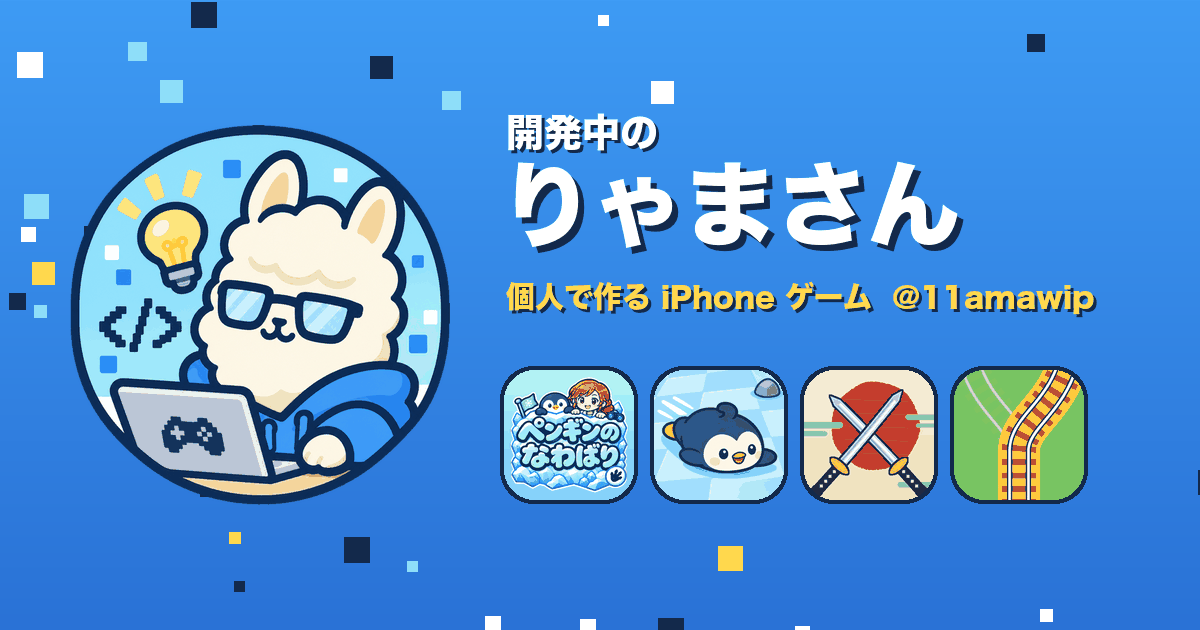
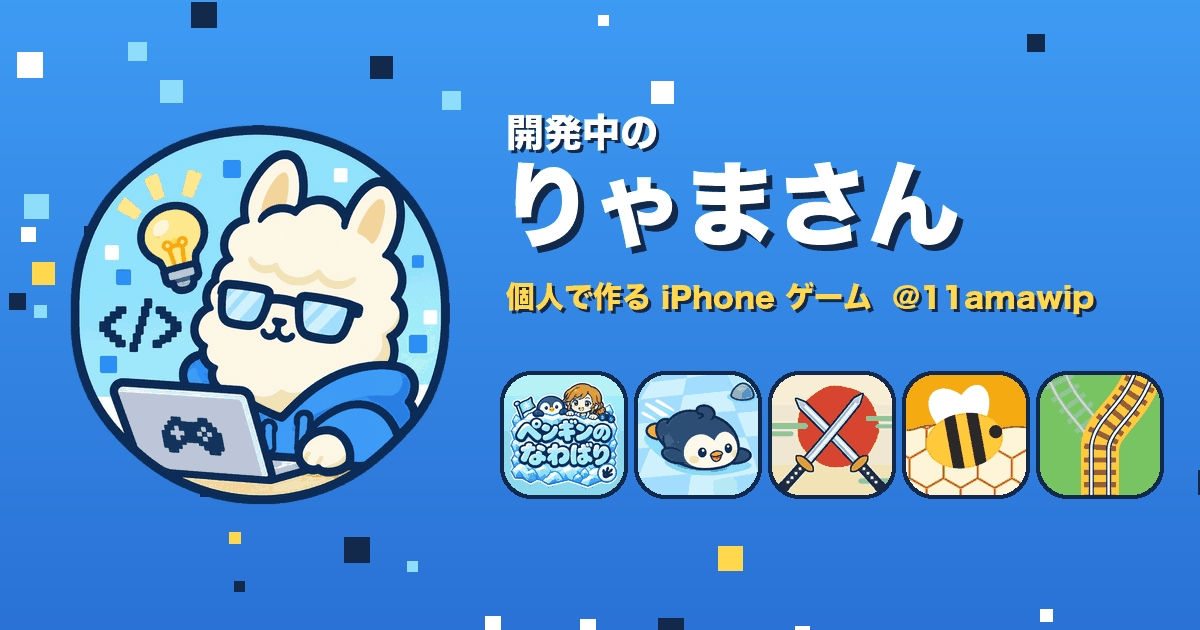
みつわけハニカム追加・切り替え特急を配信中に・スマホで札を畳む

diff --git a/index.html b/index.html
@@ -4,7 +4,7 @@
 <meta charset="utf-8">
 <meta name="viewport" content="width=device-width, initial-scale=1">
 <title>開発中のりゃまさん（@11amawip）— 個人で作る iPhone ゲーム</title>
-<meta name="description" content="個人で iPhone のゲームを作っています。ペンギンのなわばり、すべりだせ！ペンギン、フリックチャンバラ。どれも無料で遊べます。">
+<meta name="description" content="個人で iPhone のゲームを作っています。ペンギンのなわばり、すべりだせ！ペンギン、フリックチャンバラ、みつわけハニカム、切り替え特急。どれも無料で遊べます。">
 <meta name="theme-color" content="#2F86F0">
 <link rel="icon" href="img/avatar.png">
 <link rel="apple-touch-icon" href="img/avatar.png">
@@ -12,7 +12,7 @@
 <meta property="og:type" content="website">
 <meta property="og:url" content="https://11amawip.github.io/">
 <meta property="og:title" content="開発中のりゃまさん — 個人で作る iPhone ゲーム">
-<meta property="og:description" content="六角の推理パズル、氷をすべる脱出パズル、フリックで斬るチャンバラ。どれも無料。">
+<meta property="og:description" content="六角の推理パズル、氷をすべる脱出パズル、フリックで斬るチャンバラ、蜜を分けるパズル、分岐を切り替える電車ゲーム。どれも無料。">
 <meta property="og:image" content="https://11amawip.github.io/img/ogp.png">
 <meta name="twitter:card" content="summary_large_image">
 <meta name="twitter:site" content="@11amawip">
@@ -47,9 +47,9 @@
     <div>
       <span class="eyebrow">INDIE GAME DEV · @11amawip</span>
       <h1><small>開発中の</small>りゃまさん</h1>
-      <p class="lead">個人で iPhone のゲームを作っています。<br><span>考える、すべる、斬る、走る。</span><br>どれも無料です。</p>
+      <p class="lead">個人で iPhone のゲームを作っています。<br><span>考える、すべる、斬る、分ける、走る。</span><br>どれも無料です。</p>
       <ul class="stats">
-        <li>3 GAMES + 1 SOON</li><li>FREE TO PLAY</li><li>iPhone</li>
+        <li>5 GAMES</li><li>FREE TO PLAY</li><li>iPhone</li>
       </ul>
       <a class="cta" href="#games">ゲームを見る <span class="arrow">↓</span></a>
     </div>
@@ -58,8 +58,8 @@
 
 <div class="band"><div class="marquee" aria-hidden="true">
   <div class="marquee__track">
-    <span>ペンギンのなわばり</span><span>すべりだせ！ペンギン</span><span>フリックチャンバラ</span><span>切り替え特急</span>
-    <span>ペンギンのなわばり</span><span>すべりだせ！ペンギン</span><span>フリックチャンバラ</span><span>切り替え特急</span>
+    <span>ペンギンのなわばり</span><span>すべりだせ！ペンギン</span><span>フリックチャンバラ</span><span>みつわけハニカム</span><span>切り替え特急</span>
+    <span>ペンギンのなわばり</span><span>すべりだせ！ペンギン</span><span>フリックチャンバラ</span><span>みつわけハニカム</span><span>切り替え特急</span>
   </div>
 </div></div>
 
@@ -130,6 +130,27 @@
     <span class="app__num" aria-hidden="true">03</span>
   </article>
 
+  <article class="app app--honey">
+    <div class="app__text">
+      <div class="app__head">
+        <img class="app__icon" src="img/honey-icon.png" alt="" width="256" height="256">
+        <div><h3 class="app__name">みつわけハニカム</h3><p class="app__genre">蜜をフタで分けるパズル</p></div>
+      </div>
+      <p class="app__catch">とろとろの蜜を、<br><em>ぴったり分けて。</em></p>
+      <ul class="app__feat">
+        <li>蜜はマスごとに左下と右下へ半分ずつ。フタで道を変える</li>
+        <li>ツボの数字とぴったり同じ量になったら「ぶんぶん！」</li>
+        <li>500ステージと、毎日とどく「きょうの1問」</li>
+      </ul>
+      <a class="store" href="https://apps.apple.com/app/id6838942822" rel="noopener">App Store で無料 <span aria-hidden="true">→</span></a>
+    </div>
+    <div class="phones">
+      <div class="phone phone--a"><img src="img/honey-02-pour-twin.jpg" alt="みつわけハニカムの盤面。ふたつの注ぎ口から蜜が流れる" loading="lazy"></div>
+      <div class="phone phone--b"><img src="img/honey-05-crack.jpg" alt="ひびの入った壁のある巣" loading="lazy"></div>
+    </div>
+    <span class="app__num" aria-hidden="true">04</span>
+  </article>
+
   <article class="app app--kirikae">
     <div class="app__text">
       <div class="app__head">
@@ -142,13 +163,13 @@
         <li>磁石・無敵・自動運転のアイテム</li>
         <li>機関車8種と、荷物を積む貨車</li>
       </ul>
-      <span class="soon">もうすぐ配信（審査中）</span>
+      <a class="store" href="https://apps.apple.com/app/id6838373254" rel="noopener">App Store で無料 <span aria-hidden="true">→</span></a>
     </div>
     <div class="phones">
       <div class="phone phone--a"><img src="img/kirikae-2-play.jpg" alt="切り替え特急のプレイ画面" loading="lazy"></div>
       <div class="phone phone--b"><img src="img/kirikae-6-space.jpg" alt="宇宙を走る電車" loading="lazy"></div>
     </div>
-    <span class="app__num" aria-hidden="true">04</span>
+    <span class="app__num" aria-hidden="true">05</span>
   </article>
 </main>
 
@@ -160,5 +181,20 @@
   <p class="copy">© 2026 開発中のりゃまさん（@11amawip）</p>
 </footer>
 
+<script>
+// スマホでは各アプリの説明と画面写真を畳み、「くわしく見る」で開く（JS が無いときは全部見える）
+document.documentElement.classList.add('js');
+document.querySelectorAll('.app').forEach(function (a) {
+  var b = document.createElement('button');
+  b.type = 'button'; b.className = 'app__more'; b.textContent = 'くわしく見る';
+  b.setAttribute('aria-expanded', 'false');
+  b.addEventListener('click', function () {
+    var open = a.classList.toggle('is-open');
+    b.textContent = open ? 'とじる' : 'くわしく見る';
+    b.setAttribute('aria-expanded', open ? 'true' : 'false');
+  });
+  a.querySelector('.app__text').appendChild(b);
+});
+</script>
 </body>
 </html>

diff --git a/en/index.html b/en/index.html
@@ -4,7 +4,7 @@
 <meta charset="utf-8">
 <meta name="viewport" content="width=device-width, initial-scale=1">
 <title>Llama-san (@11amawip) — Indie iPhone Games</title>
-<meta name="description" content="Indie iPhone games by Llama-san (@11amawip): Penguin Territory, Slide Out, Penguin! and Flick Chanbara. All free to play.">
+<meta name="description" content="Indie iPhone games by Llama-san (@11amawip): Penguin Territory, Slide Out, Penguin!, Flick Chanbara, Mitsuwake Honeycomb and Switch Express. All free to play.">
 <meta name="theme-color" content="#2F86F0">
 <link rel="icon" href="../img/avatar.png">
 <link rel="apple-touch-icon" href="../img/avatar.png">
@@ -12,7 +12,7 @@
 <meta property="og:type" content="website">
 <meta property="og:url" content="https://11amawip.github.io/en/">
 <meta property="og:title" content="Llama-san — Indie iPhone Games">
-<meta property="og:description" content="A hex logic puzzle, an ice-sliding escape puzzle and a flick-to-slash sword duel. All free.">
+<meta property="og:description" content="A hex logic puzzle, an ice-sliding escape puzzle, a flick-to-slash sword duel a honey-splitting puzzle and a train-switching runner. All free.">
 <meta property="og:image" content="https://11amawip.github.io/img/ogp.png">
 <meta name="twitter:card" content="summary_large_image">
 <meta name="twitter:site" content="@11amawip">
@@ -47,9 +47,9 @@
     <div>
       <span class="eyebrow">INDIE GAME DEV · @11amawip</span>
       <h1><small>work-in-progress</small>Llama-san</h1>
-      <p class="lead">I make iPhone games on my own.<br><span>Think. Slide. Slash. Ride.</span> All free to play.</p>
+      <p class="lead">I make iPhone games on my own.<br><span>Think. Slide. Slash. Split. Ride.</span> All free to play.</p>
       <ul class="stats">
-        <li>3 GAMES + 1 SOON</li><li>FREE TO PLAY</li><li>iPhone</li>
+        <li>5 GAMES</li><li>FREE TO PLAY</li><li>iPhone</li>
       </ul>
       <a class="cta" href="#games">See the games <span class="arrow">↓</span></a>
     </div>
@@ -58,8 +58,8 @@
 
 <div class="band"><div class="marquee" aria-hidden="true">
   <div class="marquee__track">
-    <span>Penguin Territory</span><span>Slide Out, Penguin!</span><span>Flick Chanbara</span><span>Switch Express</span>
-    <span>Penguin Territory</span><span>Slide Out, Penguin!</span><span>Flick Chanbara</span><span>Switch Express</span>
+    <span>Penguin Territory</span><span>Slide Out, Penguin!</span><span>Flick Chanbara</span><span>Mitsuwake Honeycomb</span><span>Switch Express</span>
+    <span>Penguin Territory</span><span>Slide Out, Penguin!</span><span>Flick Chanbara</span><span>Mitsuwake Honeycomb</span><span>Switch Express</span>
   </div>
 </div></div>
 
@@ -130,6 +130,27 @@
     <span class="app__num" aria-hidden="true">03</span>
   </article>
 
+  <article class="app app--honey">
+    <div class="app__text">
+      <div class="app__head">
+        <img class="app__icon" src="../img/honey-icon.png" alt="" width="256" height="256">
+        <div><h3 class="app__name">Mitsuwake Honeycomb</h3><p class="app__genre">Honey-splitting hex puzzle · Japanese only for now</p></div>
+      </div>
+      <p class="app__catch">Thick honey.<br><em>Split it just right.</em></p>
+      <ul class="app__feat">
+        <li>Honey splits in half at every cell. Place lids to change its path</li>
+        <li>Match every jar's number exactly and the bees cheer</li>
+        <li>500 stages, plus a new daily puzzle</li>
+      </ul>
+      <a class="store" href="https://apps.apple.com/app/id6838942822" rel="noopener">Free on the App Store <span aria-hidden="true">→</span></a>
+    </div>
+    <div class="phones">
+      <div class="phone phone--a"><img src="../img/honey-02-pour-twin.jpg" alt="Mitsuwake Honeycomb board with two spouts" loading="lazy"></div>
+      <div class="phone phone--b"><img src="../img/honey-05-crack.jpg" alt="A hive with cracked walls" loading="lazy"></div>
+    </div>
+    <span class="app__num" aria-hidden="true">04</span>
+  </article>
+
   <article class="app app--kirikae">
     <div class="app__text">
       <div class="app__head">
@@ -142,13 +163,13 @@
         <li>Magnet, Star and Autopilot items</li>
         <li>8 locomotives and cargo wagons to load up</li>
       </ul>
-      <span class="soon">Coming soon (in review)</span>
+      <a class="store" href="https://apps.apple.com/app/id6838373254" rel="noopener">Free on the App Store <span aria-hidden="true">→</span></a>
     </div>
     <div class="phones">
       <div class="phone phone--a"><img src="../img/kirikae-en-2-play.jpg" alt="Switch Express gameplay" loading="lazy"></div>
       <div class="phone phone--b"><img src="../img/kirikae-en-6-space.jpg" alt="A train in outer space" loading="lazy"></div>
     </div>
-    <span class="app__num" aria-hidden="true">04</span>
+    <span class="app__num" aria-hidden="true">05</span>
   </article>
 </main>
 
@@ -160,5 +181,20 @@
   <p class="copy">© 2026 Llama-san (@11amawip)</p>
 </footer>
 
+<script>
+// スマホでは各アプリの説明と画面写真を畳み、「Details & screens」で開く（JS が無いときは全部見える）
+document.documentElement.classList.add('js');
+document.querySelectorAll('.app').forEach(function (a) {
+  var b = document.createElement('button');
+  b.type = 'button'; b.className = 'app__more'; b.textContent = 'Details & screens';
+  b.setAttribute('aria-expanded', 'false');
+  b.addEventListener('click', function () {
+    var open = a.classList.toggle('is-open');
+    b.textContent = open ? 'Close' : 'Details & screens';
+    b.setAttribute('aria-expanded', open ? 'true' : 'false');
+  });
+  a.querySelector('.app__text').appendChild(b);
+});
+</script>
 </body>
 </html>

diff --git a/style.css b/style.css
@@ -198,6 +198,8 @@ a { color: inherit; }
 .app--nawabari   { --accent: #7FD3FF; }
 .app--suberidase { --accent: #5EE3D0; }
 .app--chanbara   { --accent: #FF6B5B; }
+.app--honey      { --accent: #FFC83D; }
+.app--honey .app__name { white-space: normal; }  /* 英語名が長い */
 .app--kirikae    { --accent: #9BE15D; }
 
 /* ---------- 下 ---------- */
@@ -260,4 +262,21 @@ a { color: inherit; }
   .app__name { font-size: 17px; white-space: normal; }
   .store { white-space: normal; font-size: 15px; padding: 12px 16px; }
   .soon { font-size: 14px; padding: 10px 14px; }
+}
+
+/* ---------- スマホで札を畳む（JS が html.js を付けたときだけ） ---------- */
+.app__more { display: none; }
+@media (max-width: 760px) {
+  html.js .app__more {
+    display: inline-flex; align-items: center; gap: 8px; margin: 14px auto 0; padding: 10px 18px;
+    border-radius: 999px; border: 2px solid var(--accent); background: transparent; color: var(--accent);
+    font: inherit; font-weight: 800; font-size: 14px; cursor: pointer; width: 100%; justify-content: center;
+  }
+  html.js .app__more::after { content: "▾"; transition: transform .25s; }
+  html.js .app.is-open .app__more::after { transform: rotate(180deg); }
+  html.js .app:not(.is-open) .app__feat, html.js .app:not(.is-open) .phones { display: none; }
+  html.js .app:not(.is-open) .app__num { display: none; }  /* 畳んだ札では番号がボタンに重なる */
+  html.js .app.is-open .phones { margin-top: 18px; }
+  html.js .app { padding-bottom: 22px; }
+  html.js .app__feat { margin-top: 18px; }
 }
